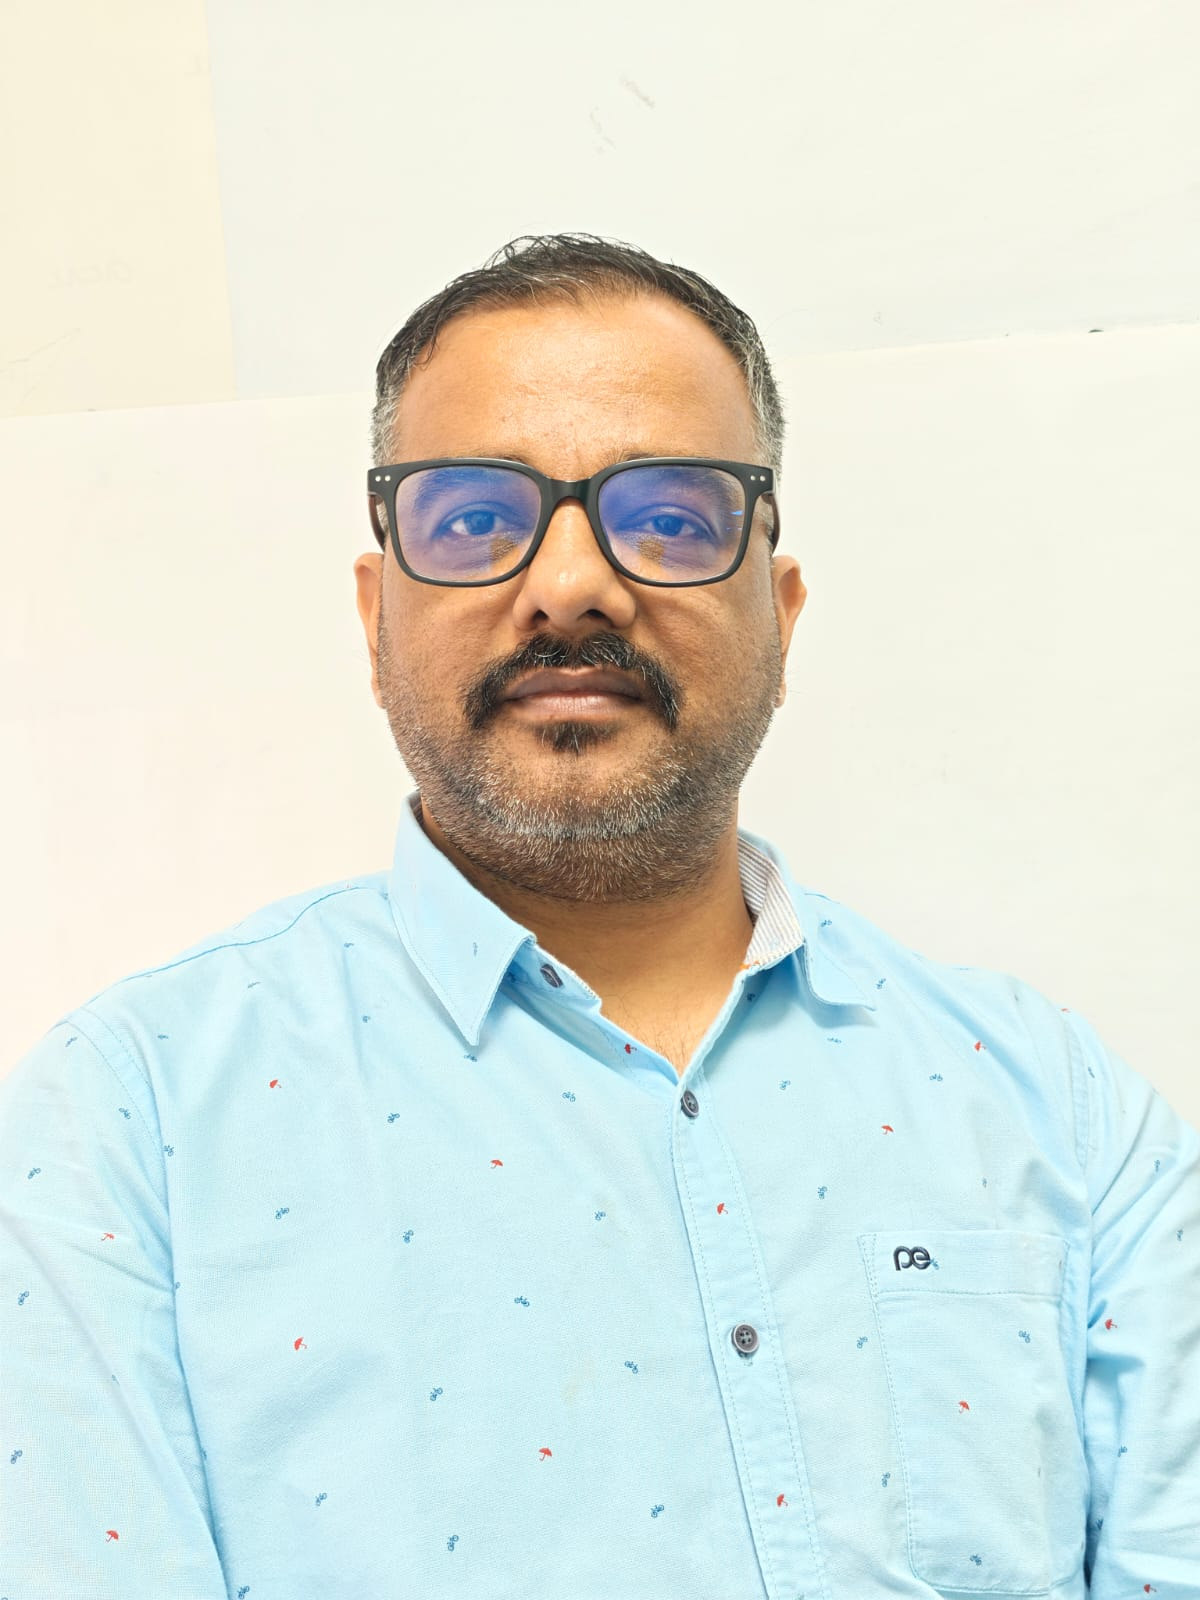
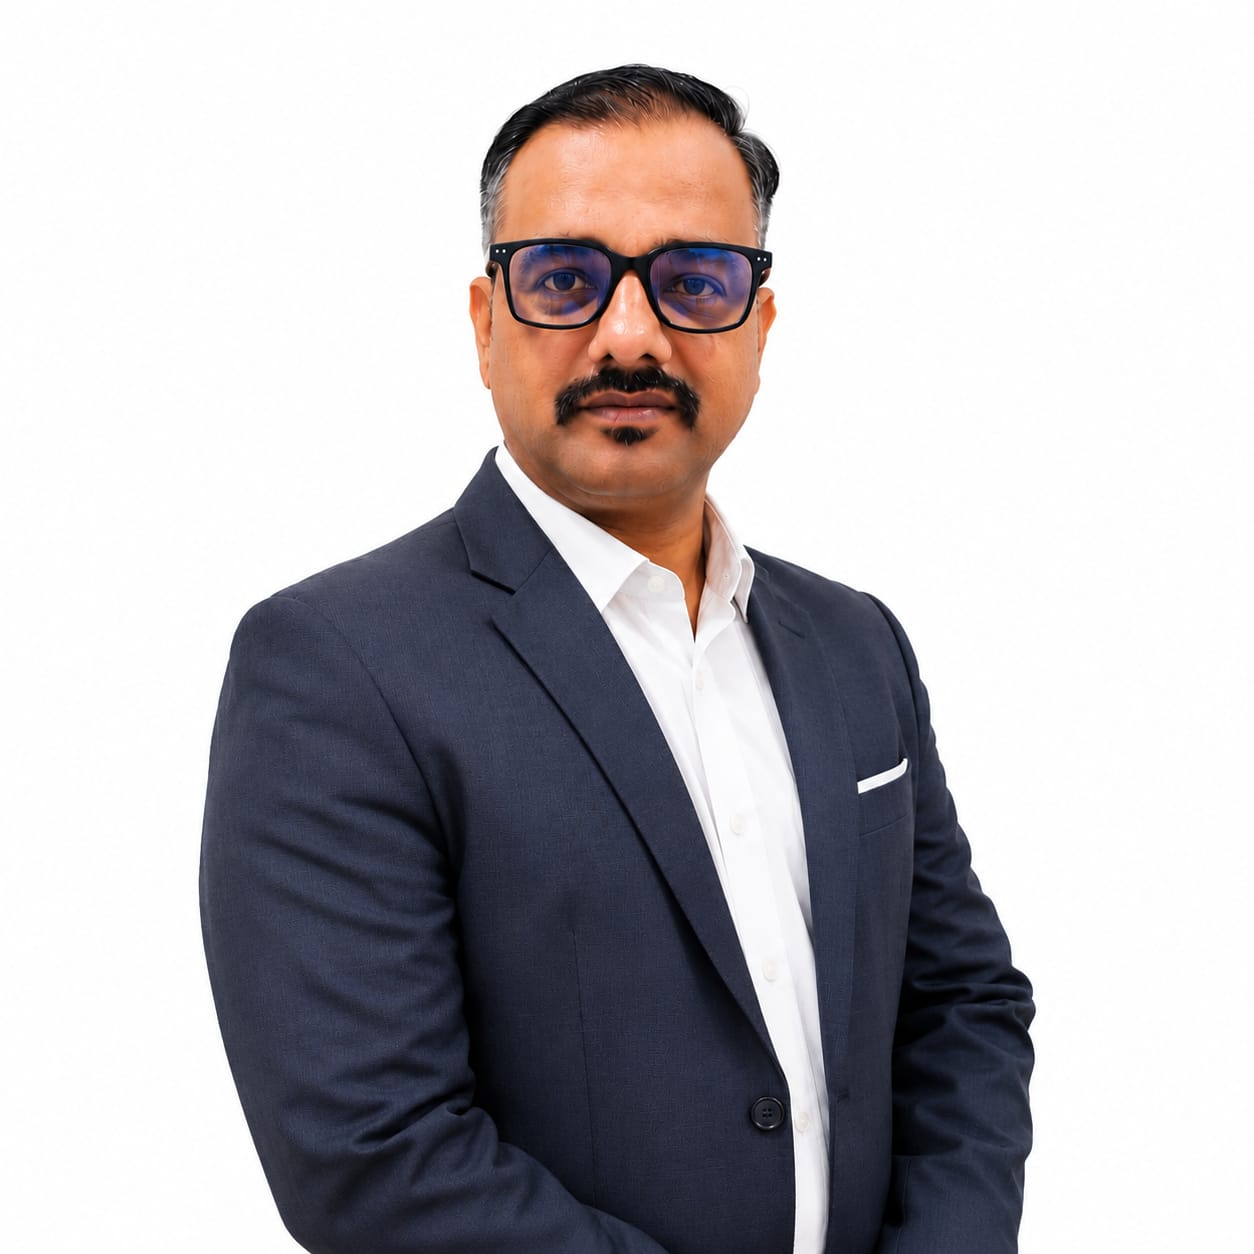
feat: add Gemini API key field to settings
Store the Gemini API key in the database to allow configurable AI integration via the admin dashboard.

diff --git a/src/pages/Admin.tsx b/src/pages/Admin.tsx
@@ -297,6 +297,25 @@ export default function Admin() {
                    <textarea value={settings.email_body} onChange={e=>setSettings({...settings, email_body: e.target.value})} className="w-full bg-bg-input border border-gold/20 p-3 h-32 outline-none focus:border-gold" />
                 </div>
               </div>
+
+              {/* ═══ GEMINI API KEY SECTION ═══ */}
+              <div className="border-t border-gold/10 pt-6 mt-8 mb-6">
+                <h3 className="text-lg font-serif mb-2 text-gold">Gemini AI Setup</h3>
+                <p className="text-[11px] text-muted mb-4 leading-relaxed max-w-xl">
+                  Configure your Gemini API Key to enable AI intelligence, conversational assistance, and personalized content generations. Keeps API keys protected server-side.
+                </p>
+                <div className="max-w-xl">
+                   <label className="block text-xs uppercase tracking-[0.1em] text-muted mb-2 font-semibold">Gemini API Key</label>
+                   <input 
+                     type="password" 
+                     placeholder="Enter Gemini API Key (keep empty to use default env key)" 
+                     value={settings.gemini_api_key || ''} 
+                     onChange={e=>setSettings({...settings, gemini_api_key: e.target.value})} 
+                     className="w-full bg-bg-input border border-gold/20 p-3 outline-none focus:border-gold font-mono text-sm tracking-wide rounded-sm" 
+                   />
+                </div>
+              </div>
+
               <button onClick={saveSettings} className="bg-gold text-bg-dark px-8 py-4 text-xs font-bold uppercase tracking-[0.2em] hover:bg-gold-lt transition-colors rounded">Save Settings</button>
             </div>
           </section>

diff --git a/server.ts b/server.ts
@@ -64,6 +64,12 @@ async function getDbPool() {
         )
       `);
 
+      try {
+        await pool.query(`ALTER TABLE settings ADD COLUMN gemini_api_key VARCHAR(500)`);
+      } catch (err) {
+        // Already exists
+      }
+
       await pool.query(`
         CREATE TABLE IF NOT EXISTS life_paths (
           id INT PRIMARY KEY,
@@ -271,10 +277,10 @@ async function startServer() {
   app.put("/api/settings", requireAuth, async (req, res) => {
     try {
       const db = await getDbPool();
-      const { whatsapp, email, whatsapp_message, email_subject, email_body } = req.body;
+      const { whatsapp, email, whatsapp_message, email_subject, email_body, gemini_api_key } = req.body;
       await db.query(`
-        UPDATE settings SET whatsapp=?, email=?, whatsapp_message=?, email_subject=?, email_body=? WHERE id=1
-      `, [whatsapp, email, whatsapp_message, email_subject, email_body]);
+        UPDATE settings SET whatsapp=?, email=?, whatsapp_message=?, email_subject=?, email_body=?, gemini_api_key=? WHERE id=1
+      `, [whatsapp, email, whatsapp_message, email_subject, email_body, gemini_api_key || null]);
       res.json({ success: true });
     } catch (err: any) { res.status(500).json({ error: err.message }); }
   });

diff --git a/src/Types.ts b/src/Types.ts
@@ -5,6 +5,7 @@ export interface Settings {
   whatsapp_message: string;
   email_subject: string;
   email_body: string;
+  gemini_api_key?: string;
 }
 
 export interface Testimonial {

diff --git a/public/api.php b/public/api.php
@@ -47,6 +47,12 @@ try {
         display_order INT DEFAULT 0
     )");
 
+    try {
+        $pdo->exec("ALTER TABLE settings ADD COLUMN gemini_api_key VARCHAR(500)");
+    } catch (Exception $e) {
+        // Already exists
+    }
+
     // Seed content pages if empty
     $cnt = $pdo->query('SELECT COUNT(*) as cnt FROM content_pages')->fetch()['cnt'];
     if ($cnt == 0) {
@@ -147,8 +153,9 @@ try {
     }
     elseif ($route === 'settings' && $method === 'PUT') {
         require_auth();
-        $stmt = $pdo->prepare('UPDATE settings SET whatsapp=?, email=?, whatsapp_message=?, email_subject=?, email_body=? WHERE id=1');
-        $stmt->execute([$input['whatsapp'], $input['email'], $input['whatsapp_message'], $input['email_subject'], $input['email_body']]);
+        $gemini_key = isset($input['gemini_api_key']) ? $input['gemini_api_key'] : null;
+        $stmt = $pdo->prepare('UPDATE settings SET whatsapp=?, email=?, whatsapp_message=?, email_subject=?, email_body=?, gemini_api_key=? WHERE id=1');
+        $stmt->execute([$input['whatsapp'], $input['email'], $input['whatsapp_message'], $input['email_subject'], $input['email_body'], $gemini_key]);
         echo json_encode(['success' => true]);
     }
     elseif (preg_match('/^life_paths\/(\d+)$/', $route, $m) && $method === 'PUT') {